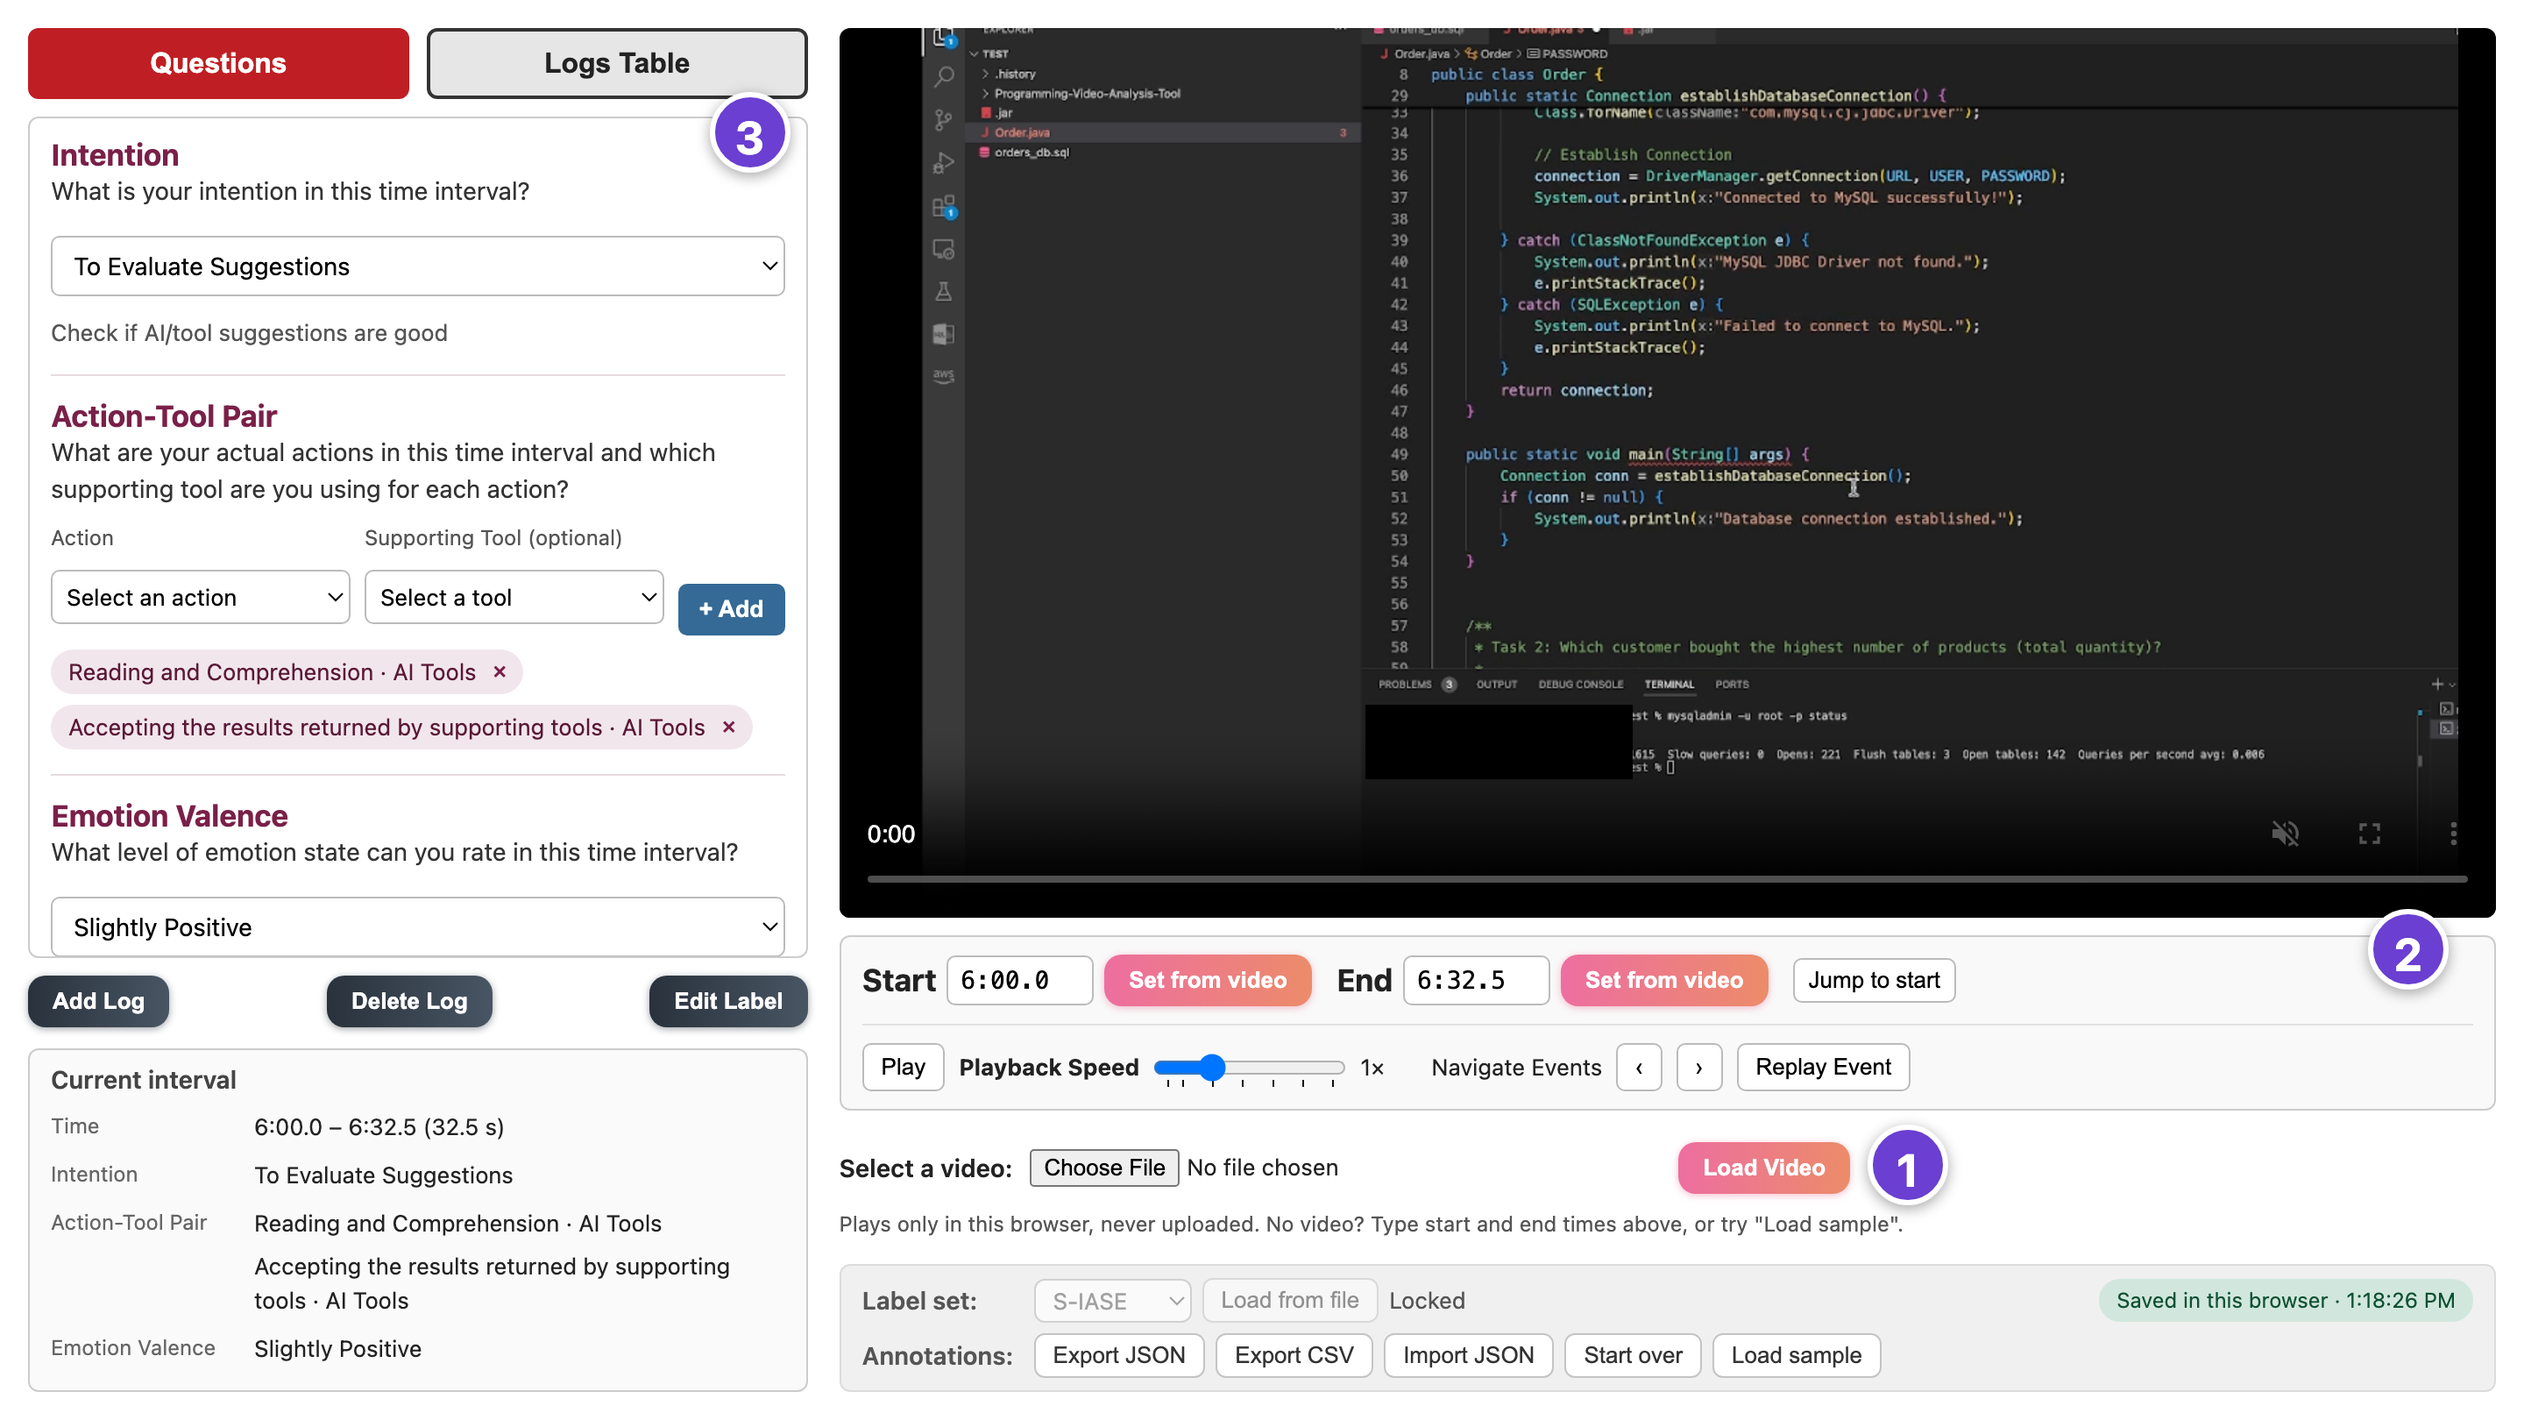
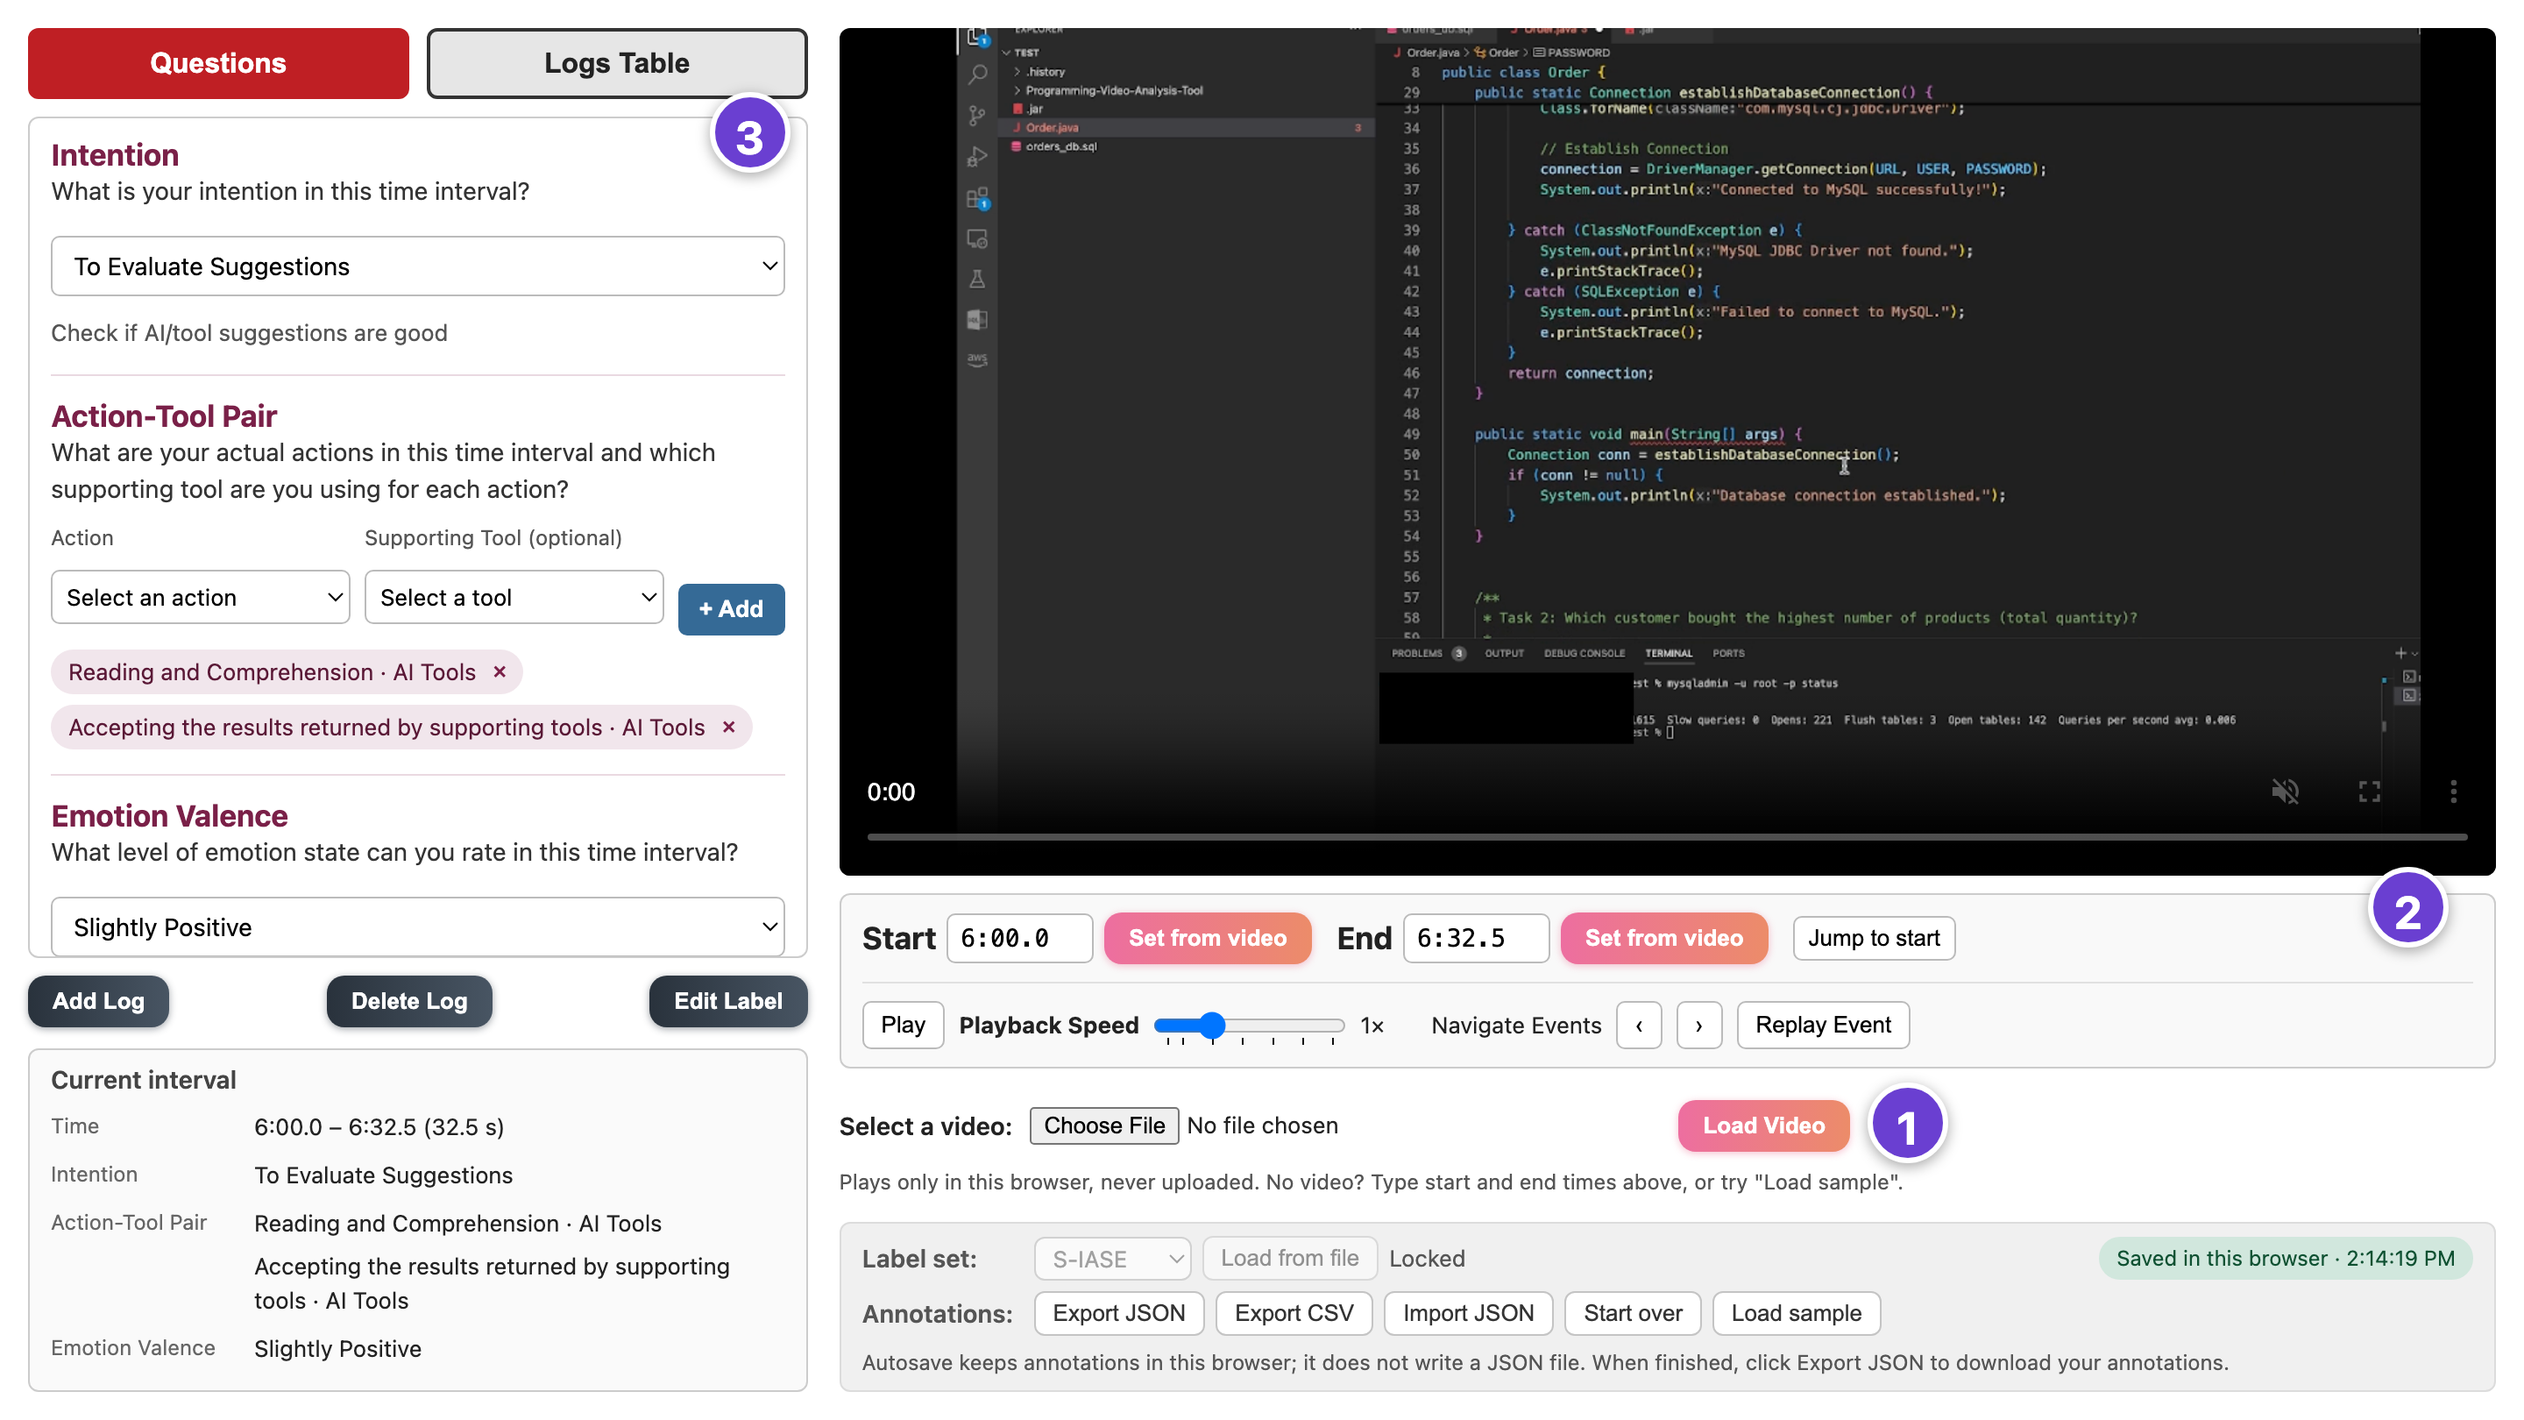
Say where annotations are saved; README screenshots and shorter output notes
- The page tells participants where autosave goes: in browser mode it
  keeps annotations in the browser and writes no file, so they click
  Export JSON when finished; with the server it writes the JSON file.
  The project page says the same.
- README: one Saving paragraph for the online and offline versions, the
  numbered screenshot for steps 1-3 and the logs table for step 4, and
  shorter CSV and older-files sections.
- The two full-page screenshots show the new note.

Changed region(s): [[0.3125, 0.0, 1.0, 0.9877], [0.5, 0.0309, 0.9062, 0.5556], [0.9375, 0.0, 1.0, 0.5556]]

diff --git a/docs/app/index.html b/docs/app/index.html
@@ -100,6 +100,7 @@
     .bar-btn { padding: 4px 10px; border: 1px solid #c4c4c4; border-radius: 6px; background: #fff; color: #333; font-size: 13px; white-space: nowrap; cursor: pointer; }
     .bar-btn:hover:not(:disabled) { background: #e6e6e6; }
     .labelset-lock { color: #555; font-size: 13px; cursor: help; }
+    .storage-note { margin: 0; color: #555; font-size: 12px; line-height: 1.5; }
 
     /* Save status at the end of the label set row; any save problem or question follows the gray box. */
     .save-status { margin-left: auto; max-width: 100%; padding: 4px 10px; border-radius: 12px; font-size: 12px; line-height: 1.4; background: #e8e8e8; color: #333; }
@@ -251,6 +252,7 @@
                   <button id="start-over" class="bar-btn tip" data-tip="Clear all annotations and begin again with an empty session, e.g. for the next participant or to switch label sets. You are asked first and can export a copy; on the server the previous version also stays in the .bak backups.">Start over</button>
                   <button id="load-sample" class="bar-btn" title="Load a made-up example session to see how annotations look (not data from any participant)">Load sample</button>
                 </div>
+                <p id="storage-note" class="storage-note hidden"></p>
               </div>
 
               <!-- Notices and questions stay next to the session controls. -->
@@ -267,7 +269,7 @@
   <script src="static/sample.js?v=7eb0ae89"></script>
   <script src="static/core.js?v=5f341f81"></script>
   <script src="static/storage.js?v=8e66accf"></script>
-  <script src="static/app.js?v=62c7d0c6"></script>
+  <script src="static/app.js?v=8fca77cb"></script>
 
   <script>
     // JavaScript for toggling views

diff --git a/docs/index.html b/docs/index.html
@@ -59,6 +59,7 @@
           <span>FSE'26 Paper</span>
         </a>
       </div>
+      <p style="margin-top:0.8rem; font-size:0.9rem;">The online demo autosaves annotations in your browser. Click <strong>Export JSON</strong> when finished to download your annotation file.</p>
     </div>
   </div>
 </section>
@@ -166,7 +167,7 @@
         <span class="step-title">Review &amp; export structured data</span>
       </div>
       <div class="content" style="margin-top:0.6rem;">
-        <p>A live log table shows every annotated interval; participants select a row to replay, edit, or delete it. Annotations are saved automatically and can be exported at any time as structured JSON (re-importable) or CSV, suitable for sequence mining, co-occurrence modeling, or qualitative coding.</p>
+        <p>A live log table shows every annotated interval; participants select a row to replay, edit, or delete it. In the online and offline HTML versions, annotations are autosaved in the current browser; no JSON file is created or updated automatically. Participants click <strong>Export JSON</strong> to download their annotations for submission or later import, or <strong>Export CSV</strong> for analysis. With the annotation server or Docker, autosave writes directly to the configured JSON file. The exported data supports sequence mining, co-occurrence modeling, or qualitative coding.</p>
         <figure>
           <img style="display:block; max-width:520px; margin:0 auto;" src="static/images/logs-table.png" alt="Logs table showing all annotated intervals">
           <p class="figure-caption">Figure 4. Logs table with all annotated intervals of the sample session; the selected row can be replayed, edited, or deleted.</p>

diff --git a/app_study/index.html b/app_study/index.html
@@ -100,6 +100,7 @@
     .bar-btn { padding: 4px 10px; border: 1px solid #c4c4c4; border-radius: 6px; background: #fff; color: #333; font-size: 13px; white-space: nowrap; cursor: pointer; }
     .bar-btn:hover:not(:disabled) { background: #e6e6e6; }
     .labelset-lock { color: #555; font-size: 13px; cursor: help; }
+    .storage-note { margin: 0; color: #555; font-size: 12px; line-height: 1.5; }
 
     /* Save status at the end of the label set row; any save problem or question follows the gray box. */
     .save-status { margin-left: auto; max-width: 100%; padding: 4px 10px; border-radius: 12px; font-size: 12px; line-height: 1.4; background: #e8e8e8; color: #333; }
@@ -251,6 +252,7 @@
                   <button id="start-over" class="bar-btn tip" data-tip="Clear all annotations and begin again with an empty session, e.g. for the next participant or to switch label sets. You are asked first and can export a copy; on the server the previous version also stays in the .bak backups.">Start over</button>
                   <button id="load-sample" class="bar-btn" title="Load a made-up example session to see how annotations look (not data from any participant)">Load sample</button>
                 </div>
+                <p id="storage-note" class="storage-note hidden"></p>
               </div>
 
               <!-- Notices and questions stay next to the session controls. -->

diff --git a/app_study/static/app.js b/app_study/static/app.js
@@ -54,6 +54,11 @@ async function initialization() {
         const mode = location.protocol === "file:" ? "browser" : declared ? declared.content : "auto";
         store = await DSTStorage.detect(window.fetch.bind(window), window.localStorage, (message) => showBanner(message, [["Dismiss", hideBanner]]), mode);
         console.info(`DevSelfTrace running in ${store.mode} mode.`);
+        const storageNote = document.getElementById("storage-note");
+        storageNote.textContent = store.mode === "server"
+            ? "Annotations are autosaved to the annotation server's JSON file. Export JSON also downloads a copy."
+            : "Autosave keeps annotations in this browser; it does not write a JSON file. When finished, click Export JSON to download your annotations.";
+        storageNote.classList.remove("hidden");
         const loaded = await store.load();
         // Older (v1) files are converted here; on the server the original was copied to <file>.v1.json at startup
         const normalized = DSTCore.normalizeSession(loaded.data, presetLabelset(DSTPresets.defaultId));

diff --git a/docs/app/static/app.js b/docs/app/static/app.js
@@ -54,6 +54,11 @@ async function initialization() {
         const mode = location.protocol === "file:" ? "browser" : declared ? declared.content : "auto";
         store = await DSTStorage.detect(window.fetch.bind(window), window.localStorage, (message) => showBanner(message, [["Dismiss", hideBanner]]), mode);
         console.info(`DevSelfTrace running in ${store.mode} mode.`);
+        const storageNote = document.getElementById("storage-note");
+        storageNote.textContent = store.mode === "server"
+            ? "Annotations are autosaved to the annotation server's JSON file. Export JSON also downloads a copy."
+            : "Autosave keeps annotations in this browser; it does not write a JSON file. When finished, click Export JSON to download your annotations.";
+        storageNote.classList.remove("hidden");
         const loaded = await store.load();
         // Older (v1) files are converted here; on the server the original was copied to <file>.v1.json at startup
         const normalized = DSTCore.normalizeSession(loaded.data, presetLabelset(DSTPresets.defaultId));

diff --git a/README.md b/README.md
@@ -26,20 +26,22 @@ DevSelfTrace is a single web page. Pick how participants open it:
 
 | | Install | Annotations are saved | Good for |
 |---|---|---|---|
-| **Online** | nothing | in the browser; export as JSON/CSV | trying it out, remote participants |
-| **Offline page** | nothing | in the browser; export as JSON/CSV | no network, or data must stay on the machine |
+| **Online** | nothing | automatically in the browser; click **Export JSON/CSV** to download a file | trying it out, remote participants |
+| **Offline page** | nothing | automatically in the browser; click **Export JSON/CSV** to download a file | no network, or data must stay on the machine |
 | **Annotation server** | Python 3 + Bottle | to a JSON file you choose | lab studies |
 | **Docker** | Docker | to a JSON file in a mounted folder | lab studies without a Python setup |
 
 In every case **the video stays on the participant's machine**: it is played by the browser and never uploaded.
 
+**Saving:** in the online and offline versions, annotations are autosaved in this browser (they survive a reload), but no file is written. When finished, click **Export JSON** and send that file as the study asks; **Import JSON** continues from it, also in another browser. With the annotation server or Docker, autosave writes the JSON file directly.
+
 ### Online
 
-Open <https://yinanwusoymilk.github.io/DevSelfTrace/app/>. Annotations are kept in the browser (they survive a reload) and can be exported at any time. **Load sample** shows a made-up session if you want to look around first.
+Open <https://yinanwusoymilk.github.io/DevSelfTrace/app/>. No Python or Bottle is needed. **Load sample** shows a made-up session if you want to look around first.
 
 ### Offline page
 
-Download or clone this repository and open `app_study/index.html` in a browser. It works the same as the online version.
+Download or clone this repository and open `app_study/index.html` in a browser. No Python or Bottle is needed.
 
 ### Annotation server
 
@@ -71,10 +73,14 @@ Then open <http://localhost:8080/>; annotations are saved to `./data/session.jso
 
 ## Annotating a recording
 
+![Steps 1 to 3: load the recording (1), set the interval's start and end (2), answer the questions (3)](docs/static/images/gui-rq123.png)
+
 1. **Load the recording** with *Select a video* → *Load Video* (any `.mp4` or `.webm`). No recording at hand? Use **Load sample**.
 2. **Mark an interval:** type the start and end times into *Start* and *End* (e.g. `1:02.5`), or play or scrub to where an activity starts or ends and click *Set from video* next to it. The next interval starts where the previous one ended.
 3. **Answer the questions** on the left. Each question is one dimension of the label set; for some options a short explanation appears under the menu once chosen (e.g. every intention), and most dimensions also accept a custom label via *Other (type your own)*. For the action–tool question, pick an action and a tool and click *+ Add*; an interval can have several pairs, each shown as a chip that × removes.
 4. **Add Log.** The interval appears in the *Logs Table*. Use ‹ › to select an interval, *Replay Event* to watch it again, *Edit Label* to change the answers of the selected interval (only the questions you answer change), and *Delete Log* to remove it.
+
+<img src="docs/static/images/logs-table.png" width="360" alt="Step 4: the Logs Table with every annotated interval of the sample session; the selected row can be replayed, edited or deleted">
 
 **Saving.** Changes are saved automatically about a second after each edit; the label in the gray box under the video, at the end of the *Label set* row, shows whether everything is saved. DevSelfTrace protects long sessions:
 
@@ -176,17 +182,15 @@ Times are in seconds. Interval IDs are never reused within a session, even after
 
 ### CSV
 
-One row per interval: `id, start, end, duration`, then one column per dimension. A pairs dimension gets one column per field (e.g. `actions.action` and `actions.tool`) listing the pairs' values in the same order, separated by `; `. Fields are quoted as needed (RFC 4180), so R, pandas and Excel read the file directly.
+One row per interval (`id, start, end, duration`, then one column per question). Action–tool pairs are split into `actions.action` and `actions.tool`, with several pairs separated by `; `. Opens directly in R, pandas or Excel.
 
-### Files from DevSelfTrace 1
+### Older files
 
-`schemaVersion` is the version of the **file format**. DevSelfTrace 1 (used in the FSE'26 study) wrote an older format (`{"logs": [{"ID", "Timestamps", "Label1", "Label2", "Label3"}]}`), referred to as v1. Such files are converted automatically when opened or imported. On the server, the original is first copied next to it (`p01.json` → `p01.v1.json`) and that copy is never changed. To convert many at once:
+Files saved by the first version of DevSelfTrace are converted automatically when opened or imported (on the server, the original is kept as `p01.v1.json`). To convert many at once:
 
 ```bash
 python scripts/convert_v1_to_v2.py p01.json p02.json --out-dir converted/
 ```
-
-The script never changes its inputs and reports anything it had to guess, such as a custom label containing a comma.
 
 ## Development
 
